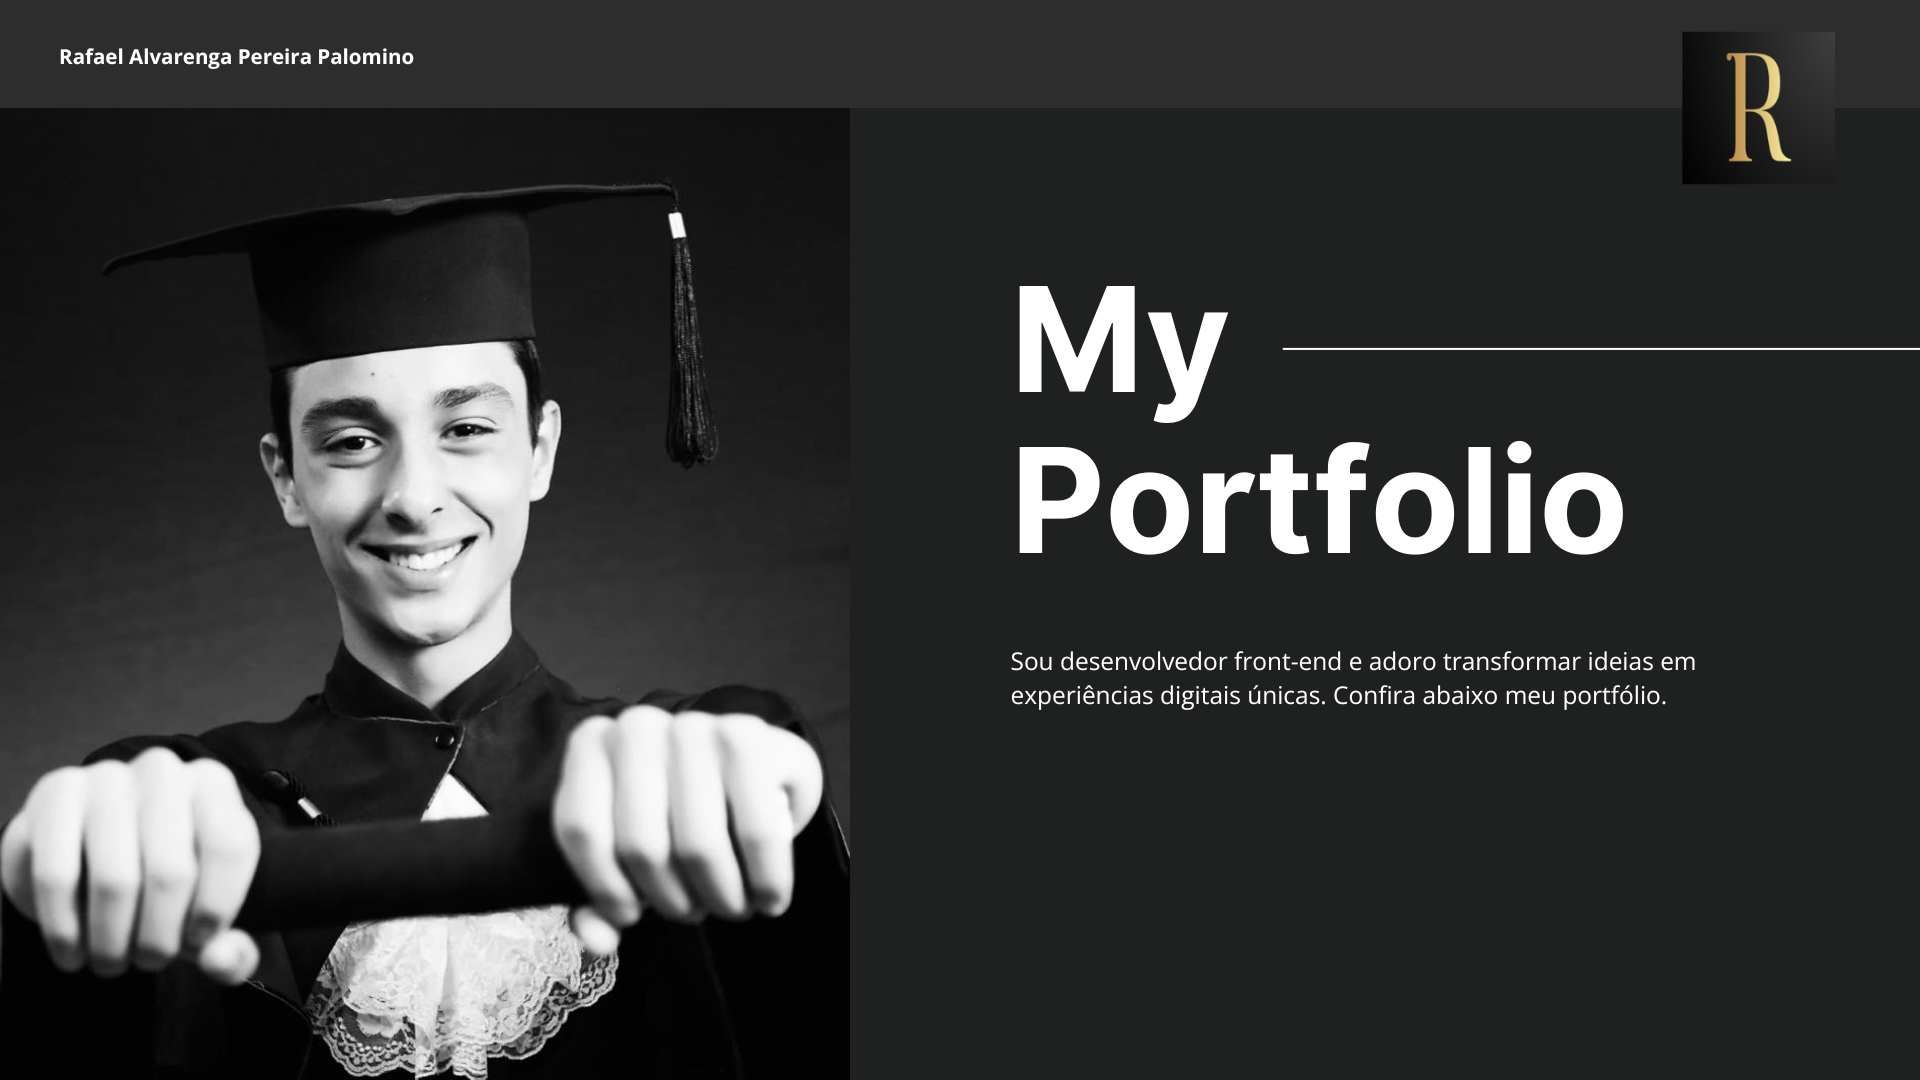
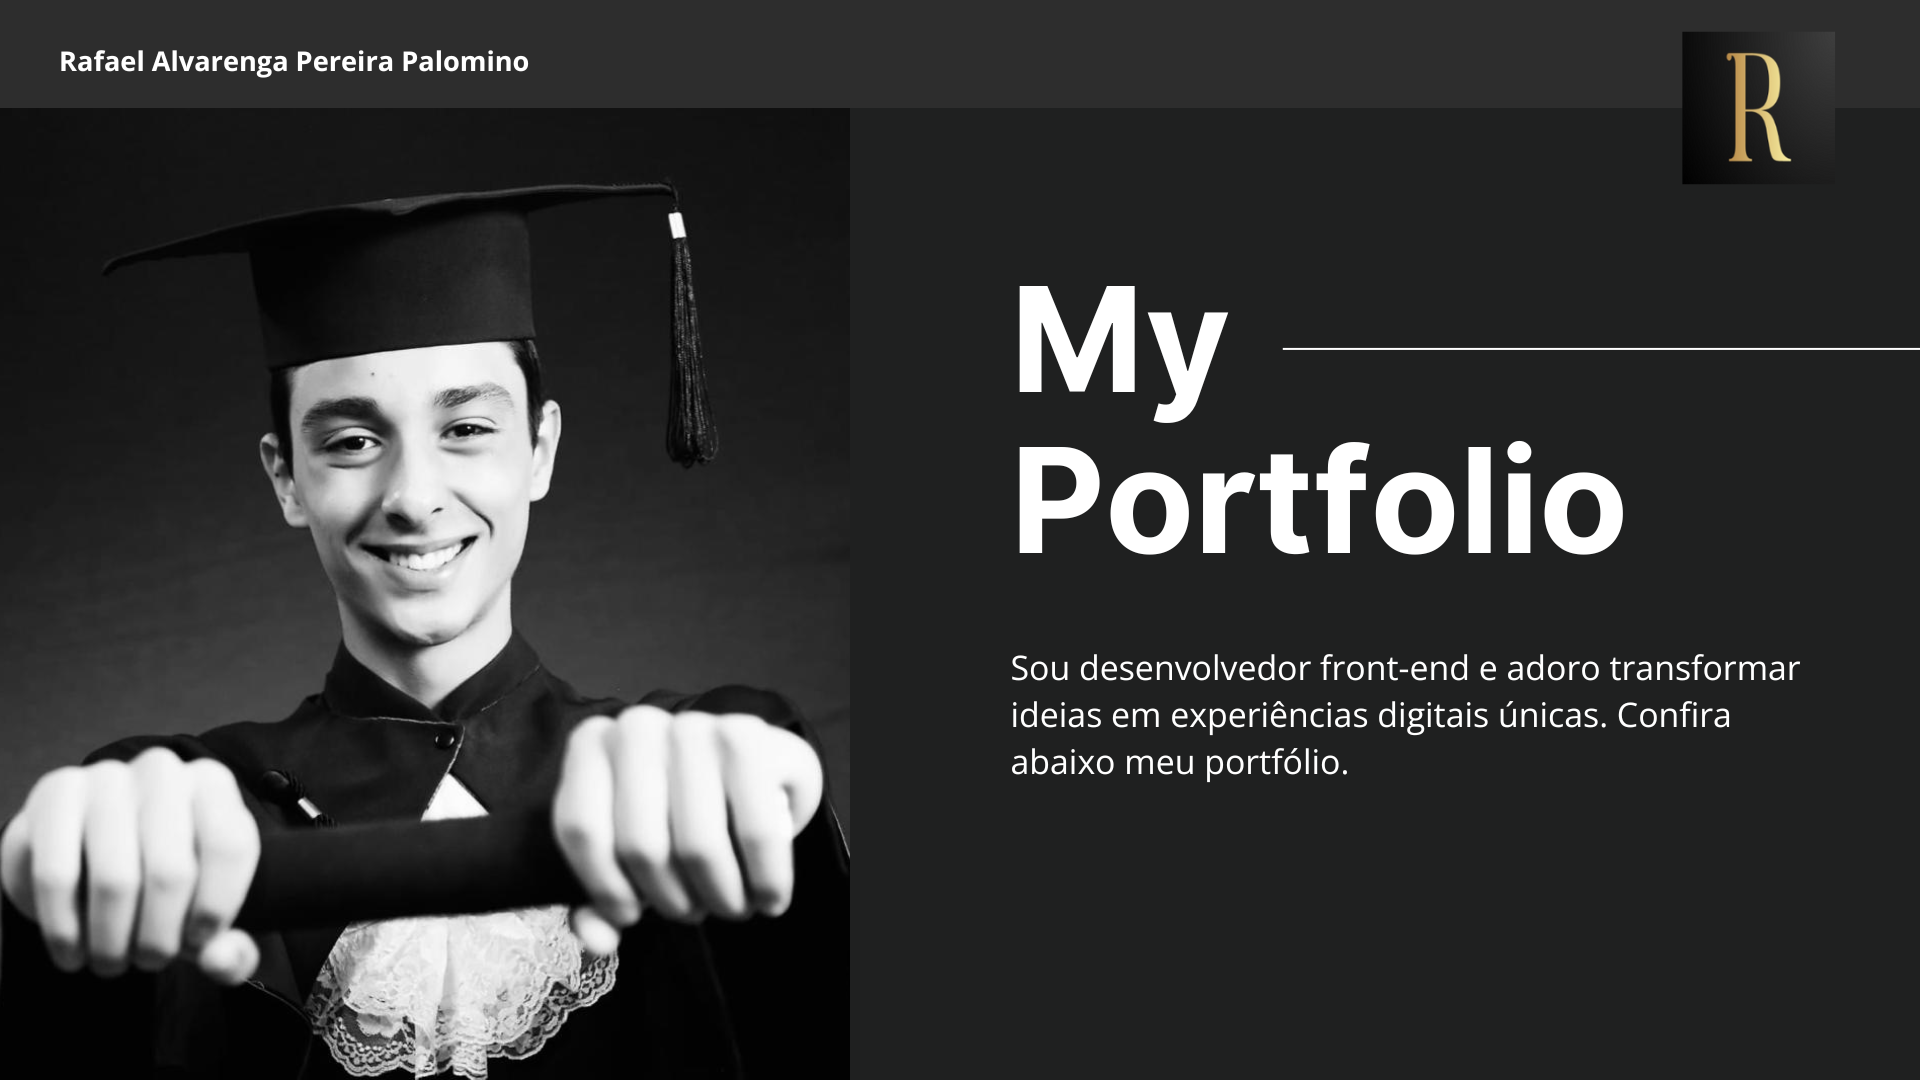
colocando seção tecnologias

Changed region(s): [[0.5312, 0.6111, 0.9375, 0.7333], [0.0312, 0.0306, 0.2812, 0.0917]]

diff --git a/index.html b/index.html
@@ -93,11 +93,19 @@
             </ul>
             <button class="btn btn--primary">
                 <span>Ver Projetos</span>
-                <i class="bi bi-arrow-down-right" ></i>
+                <i class="bi bi-arrow-down-right" ></i> 
             </button>
         </div>
         <div class="main_content2"><img src="assets/images/MyPortifolio.png" alt=""></div>
     </main>
+    <section class="skills">
+        <h2>Conhecimento nas principais tecnologias do mercado</h2>
+        <ul>
+            <li>
+                <img src="assets/images/technologies/React.png" alt="">
+            </li>
+        </ul>
+    </section>
     <footer>
         <p>
             @2025. Todos os Direitos Reservados. Rafael Alvarenga. Desenvolvido por  <a href="https://github.com/RafaelPalomino18">RA</a>

diff --git a/assets/css/styles.css b/assets/css/styles.css
@@ -73,6 +73,7 @@ h1, h2, h3 {
     font-family: 'League Spartan', Tahoma, Geneva, Verdana, sans-serif;
     text-transform: uppercase;
     color: var(--title-color);
+    font-weight: 200;
 }
 
 p{
@@ -211,9 +212,24 @@ main{
     aspect-ratio: 16/9;
 }
 
+.skills{
+    display: flex;
+    flex-direction: column;
+    justify-content: flex-start;
+    align-items: center;
+    padding: 6.25rem 1rem 2rem 1rem;
+    background: var(--secundary-bg-color);
+    margin-top: -5.5rem;
+}
+
+.skills h2{
+    text-transform: none;
+}
+
 footer p {
     font-size: .875rem;
     text-align: center;
+    margin-bottom: 5rem;    
 }
 
 @media(min-width: 768px){
